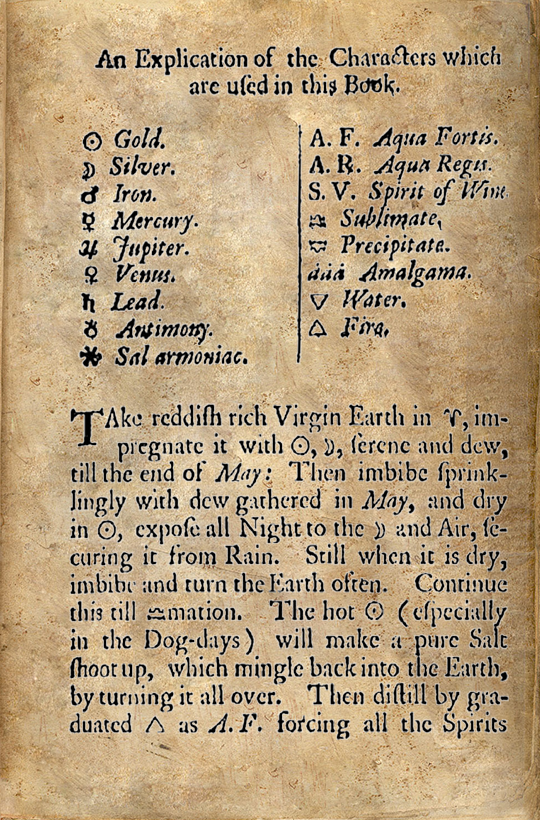
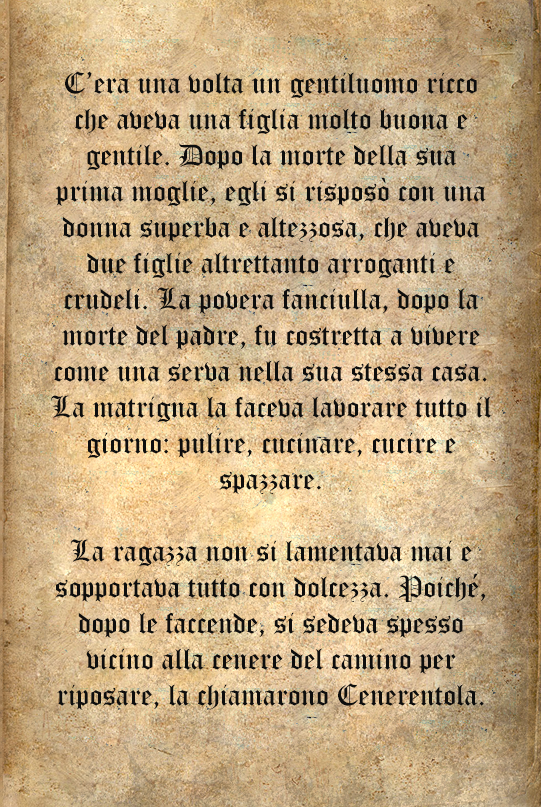
messe texture diverse per pagina e libro e sistemata texture back dello skybox

diff --git a/Graphics/main.cpp b/Graphics/main.cpp
@@ -116,7 +116,7 @@ int main()
         3, 0, 4
     };
 
-    vector<string> pathTexture1 = {"Models/Page/pagina_diffuse.jpg"};
+    vector<string> pathTexture1 = {"Models/Page/pagina_diffuse.png"};
     //vector<string> pathTexture2 = {"book_diffuse.png"};
     //Model prova = Model("Textured.obj", pathTexture1);
     //Model prova2 = Model("book_on_xz.obj", pathTexture2);
@@ -286,60 +286,90 @@ void processInput(GLFWwindow* window)
     {
 		//premuto 1 per disegnare la primo oggetto
 		std::cout << "Disegno il primo oggetto" << std::endl;
+		scene->bookTextureIndexToSet = 1;
+		scene->pageFrontTextureIndex = 2;
+		scene->pageBackTextureIndex = 3;
 		showObject(2);
 	}
 	else if (glfwGetKey(window, GLFW_KEY_2) == GLFW_PRESS && !isBeenPressed)
 	{
 		//premuto 2 per disegnare il secondo oggetto
 		std::cout << "Disegno il secondo oggetto" << std::endl;
+		scene->bookTextureIndexToSet = 2;
+		scene->pageFrontTextureIndex = 4;
+		scene->pageBackTextureIndex = 5;
 		showObject(3);
     }
 	else if (glfwGetKey(window, GLFW_KEY_3) == GLFW_PRESS && !isBeenPressed)
 	{
 		//premuto 3 per disegnare il terzo oggetto
 		std::cout << "Disegno il terzo oggetto" << std::endl;
+		scene->bookTextureIndexToSet = 3;
+		scene->pageFrontTextureIndex = 6;
+		scene->pageBackTextureIndex = 7;
 		showObject(4);
 	}
 	else if (glfwGetKey(window, GLFW_KEY_4) == GLFW_PRESS && !isBeenPressed)
 	{
 		//premuto 4 per disegnare il quarto oggetto
 		std::cout << "Disegno il quarto oggetto" << std::endl;
+		scene->bookTextureIndexToSet = 4;
+		scene->pageFrontTextureIndex = 8;
+		scene->pageBackTextureIndex = 9;
 		showObject(5);
 	}
 	else if (glfwGetKey(window, GLFW_KEY_5) == GLFW_PRESS && !isBeenPressed)
 	{
 		//premuto 5 per disegnare il quinto oggetto
 		std::cout << "Disegno il quinto oggetto" << std::endl;
+		scene->bookTextureIndexToSet = 5;
+		scene->pageFrontTextureIndex = 10;
+		scene->pageBackTextureIndex = 11;
 		showObject(6);
 	}
 	else if (glfwGetKey(window, GLFW_KEY_6) == GLFW_PRESS && !isBeenPressed)
 	{
 		//premuto 6 per disegnare il sesto oggetto
 		std::cout << "Disegno il sesto oggetto" << std::endl;
+		scene->bookTextureIndexToSet = 6;
+		scene->pageFrontTextureIndex = 12;
+		scene->pageBackTextureIndex = 13;
 		showObject(7);
 	}
 	else if (glfwGetKey(window, GLFW_KEY_7) == GLFW_PRESS && !isBeenPressed)
 	{
 		//premuto 7 per disegnare il settimo oggetto
 		std::cout << "Disegno il settimo oggetto" << std::endl;
+		scene->bookTextureIndexToSet = 7;
+		scene->pageFrontTextureIndex = 14;
+		scene->pageBackTextureIndex = 15;
 		showObject(8);
 	}
 	else if (glfwGetKey(window, GLFW_KEY_8) == GLFW_PRESS && !isBeenPressed)
 	{
 		//premuto 8 per disegnare il ottavo oggetto
 		std::cout << "Disegno il ottavo oggetto" << std::endl;
+		scene->bookTextureIndexToSet = 8;
+		scene->pageFrontTextureIndex = 16;
+		scene->pageBackTextureIndex = 17;
 		showObject(9);
 	}
 	else if (glfwGetKey(window, GLFW_KEY_9) == GLFW_PRESS && !isBeenPressed)
 	{
 		//premuto 9 per disegnare il nono oggetto
 		std::cout << "Disegno il nono oggetto" << std::endl;
+		scene->bookTextureIndexToSet = 9;
+		scene->pageFrontTextureIndex = 18;
+		scene->pageBackTextureIndex = 19;
 		showObject(10);
 	}
 	else if (glfwGetKey(window, GLFW_KEY_0) == GLFW_PRESS && !isBeenPressed)
 	{
 		//premuto 0 per disegnare la scritta
 		std::cout << "Disegno la scritta" << std::endl;
+		scene->bookTextureIndexToSet = 0;
+		scene->pageFrontTextureIndex = 0;
+		scene->pageBackTextureIndex = 1;
 		showObject(11);
 	}
 

diff --git a/Graphics/Texture.cpp b/Graphics/Texture.cpp
@@ -1,5 +1,4 @@
 #include "Texture.h"
-//#define STB_IMAGE_IMPLEMENTATION
 #include "stb_image.h"
 
 Texture::Texture(const char* image, GLenum type, GLuint unit, GLenum format, GLenum pixelType) // Controllare format(va tolta?)
@@ -39,7 +38,7 @@ Texture::Texture(const char* image, GLenum type, GLuint unit, GLenum format, GLe
 			std::cerr << "Formato immagine non supportato: " << numCh << " canali.\n";
 			stbi_image_free(data);
 		}
-		glTexImage2D(type, unit, format, width, height, 0, format, pixelType, data);
+		glTexImage2D(type, 0, format, width, height, 0, format, pixelType, data);  //ho messo 0 al posto di unit
 		glGenerateMipmap(type);
 		std::cout << "CLASSE TEXTURE::Texture caricata con successo. ID: " << id << std::endl;
 	}
@@ -48,14 +47,11 @@ Texture::Texture(const char* image, GLenum type, GLuint unit, GLenum format, GLe
 		std::cout << "Errore nel caricamento della texture" << std::endl;
 	}
 
-	//glBindTexture(type, 0);
-
 	stbi_image_free(data);
 }
 
 Texture::~Texture()
 {
-	//glDeleteTextures(1, &id);
 }
 
 void Texture::bind()

diff --git a/Graphics/Mesh.cpp b/Graphics/Mesh.cpp
@@ -9,10 +9,8 @@ Mesh::Mesh(vector<Vertex> vertices, vector<unsigned int> indices, vector<Texture
 	setMesh();
 }
 
-//DA CAPIRE BENE!!!!!!!!
 void Mesh::drawMesh(Shader& shader)
 {
-
 	unsigned int diffuseNum = 1;
 	unsigned int specularNum = 1;
 	unsigned int normalNum = 1;
@@ -39,6 +37,29 @@ void Mesh::drawMesh(Shader& shader)
 
 		shader.setInt((name + number).c_str(), i);
 		glBindTexture(GL_TEXTURE_2D, textures[i].id);
+	}
+
+	glActiveTexture(GL_TEXTURE0);
+
+	VAO.bind();
+	glDrawElements(GL_TRIANGLES, indices.size(), GL_UNSIGNED_INT, 0);
+	VAO.unbind();
+}
+
+//DA CAPIRE BENE!!!!!!!!
+void Mesh::drawMesh(Shader& shader, int textureIndex)
+{
+	if (textureIndex < textures.size())
+	{
+		glActiveTexture(GL_TEXTURE0);
+		glBindTexture(GL_TEXTURE_2D, textures[textureIndex].id);
+		shader.setInt("texture_diffuse1", 0);
+	}
+	else
+	{
+		glActiveTexture(GL_TEXTURE0);
+		glBindTexture(GL_TEXTURE_2D, textures[0].id);
+		shader.setInt("texture_diffuse1", 0);
 	}
 
 	glActiveTexture(GL_TEXTURE0);

diff --git a/Graphics/Model.cpp b/Graphics/Model.cpp
@@ -11,10 +11,10 @@ Model::Model(string path, vector<string> pathText)
 	loadModel(path);
 }
 
-void Model::drawModel(Shader& shader)
+void Model::drawModel(Shader& shader, int textureIndex)
 {
 	for (unsigned int i = 0; i < meshes.size(); i++)
-		meshes[i].drawMesh(shader);
+		meshes[i].drawMesh(shader, textureIndex);
 }
 
 void Model::loadModel(string path)

diff --git a/Graphics/Model.h b/Graphics/Model.h
@@ -20,7 +20,7 @@ public:
     Model(string path, vector<string> pathTex);
     Model(string path);
 
-    void drawModel(Shader& shader);
+    void drawModel(Shader& shader, int textureIndex);
 
 private:
 

diff --git a/Graphics/Mesh.h b/Graphics/Mesh.h
@@ -26,6 +26,7 @@ public:
 
 	//disegno le mesh
 	void drawMesh(Shader &shader);
+	void drawMesh(Shader &shader, int textureIndex);
 
 private:
 
